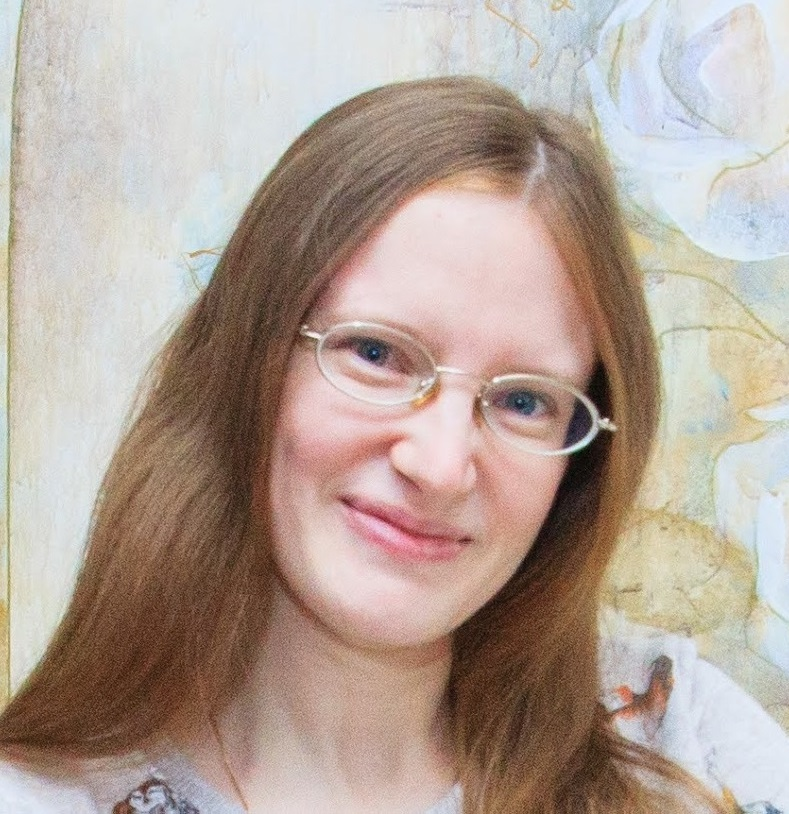
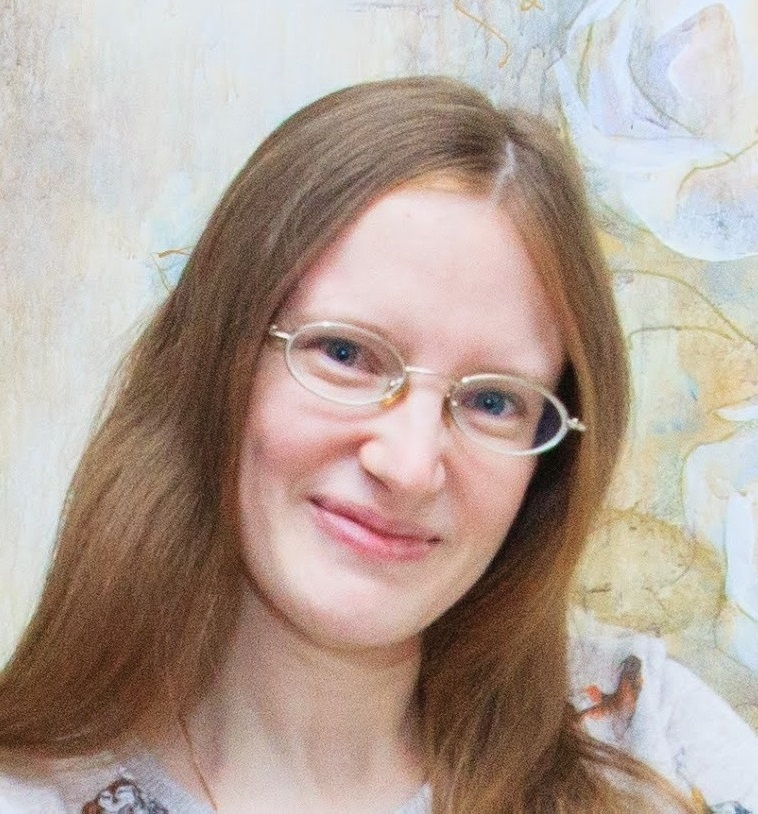
refactor: change size photo

diff --git a/style.css b/style.css
@@ -65,7 +65,7 @@ header {
     padding-top: 100px;
 } 
 .photo {
-    width: 300px;
+    width: 279.367px;
 }
 .name {
     width: 50%;
